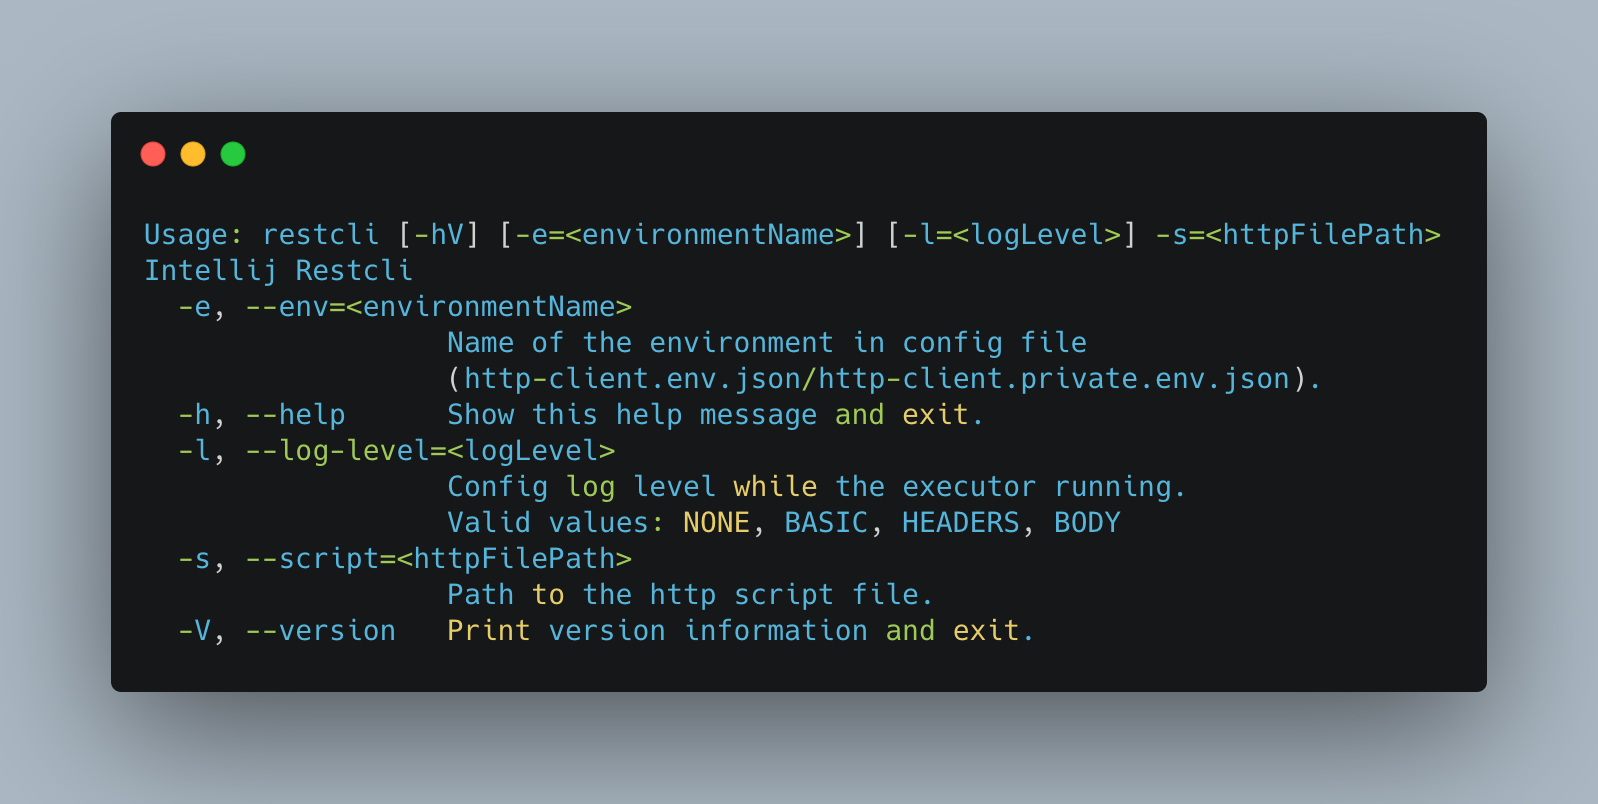
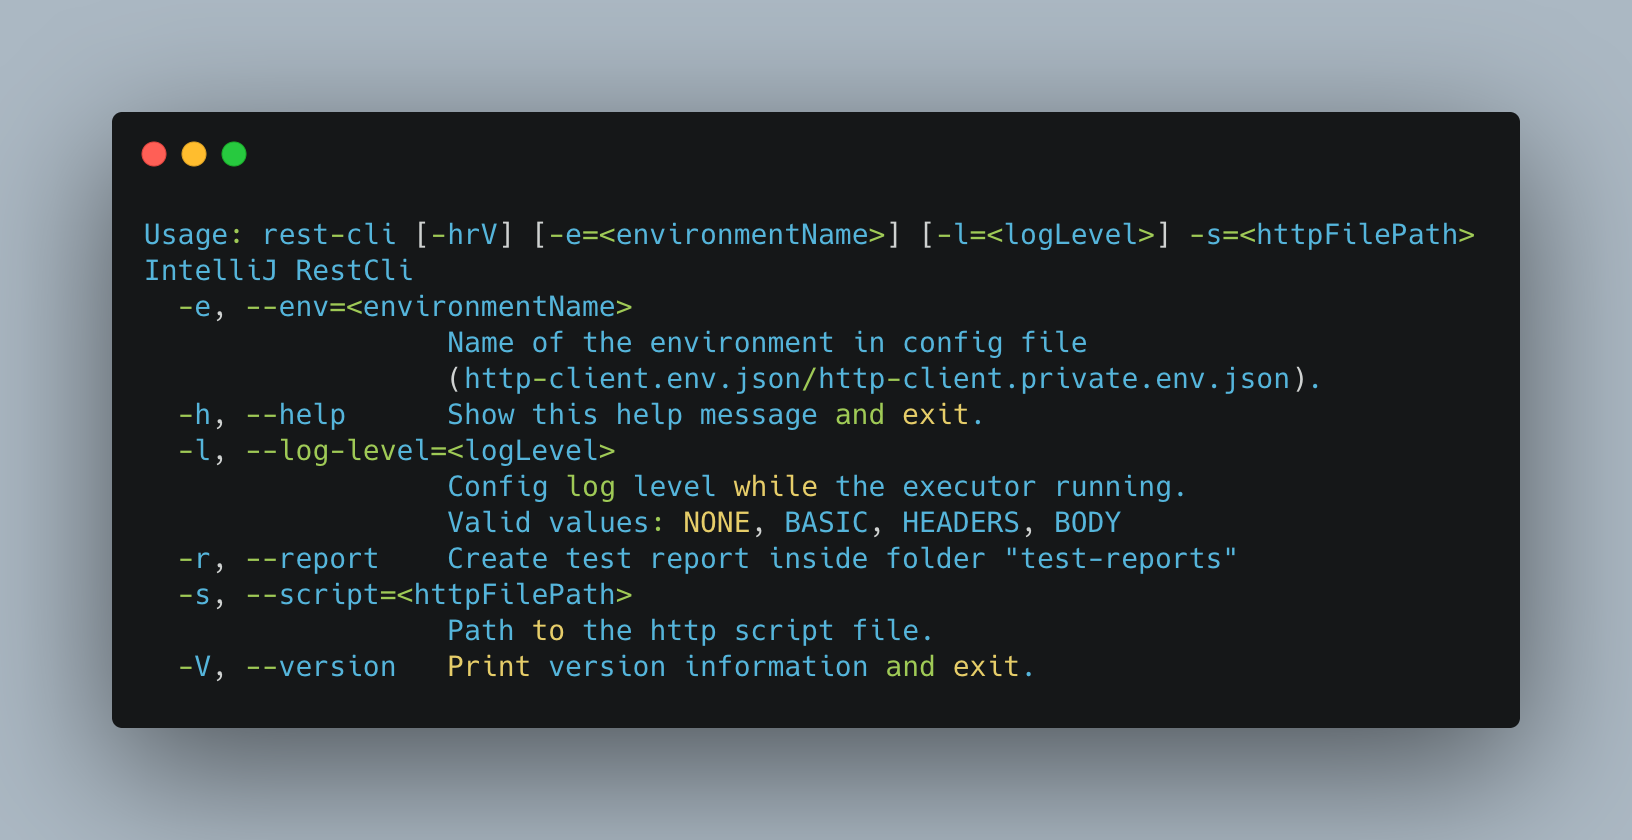
Update readme

diff --git a/README.md b/README.md
@@ -18,7 +18,7 @@
          alt="restcli">
   </a>
   <a href="https://github.com/quangson91/intellij_rest_cli/blob/master/LICENSE">
-      <img src="https://img.shields.io/badge/license-mit-blue"
+      <img src="https://img.shields.io/badge/license-MIT-blue"
            alt="restcli">
     </a>    
   <a href="https://paypal.me/quangson8128">
@@ -38,6 +38,7 @@
 ![screenshot](images/restcli_screenshots.png)
 
 ## Key Features
+* Written by Kotlin 🤩
 * Execute Intellij HTTP request files
 * Running test script including:
     - Embedded script inside HTTP request file
@@ -45,21 +46,31 @@
 * Loading and inject environment variables from
     - http-client.env.json
     - http-client.private.env.json
-* Cross platform
+* Cross platform 💻🖥
   - Windows, macOS and Linux ready.
-* Easy to custom via commandline arguments
+* Beautiful request log 🤑🤑🤑
+  - Request & response detail
+  - Test result table  
+* Easy to custom via commandline arguments 😎
   - Custom logging request
   - Inject environment name
 * [Generate test report - junit format.](https://github.com/quangson91/demo_intellij_rest_cli) 🥰🥰🥰
+
+##### Demo
+![demo-rest-cli](images/demo-rest-cli.gif)
+
+<img alt="request-with-test-success" src="images/request-with-test-success.png" width="200">
+<img alt="request-with-test-failed" src="images/request-with-test-failed.png" width="200">
+<img alt="test-result-table" src="images/test-result-table.png" width="200">
+<img alt="generate-junit-test-report" src="images/generate-junit-test-report.png" width="200">
 
 ## How To Use
 
 The fastest way to get rest cli is download jar from [releases tab](https://github.com/quangson91/intellij_rest_cli/releases)
 
 ```
-Usage: restcli [-hV] [-e=<environmentName>] [-l=<logLevel>]
-               [-r=<testReportName>] -s=<httpFilePath>
-Intellij Restcli
+Usage: rest-cli [-hrV] [-e=<environmentName>] [-l=<logLevel>] -s=<httpFilePath>
+IntelliJ RestCli
   -e, --env=<environmentName>
                   Name of the environment in config file
                   (http-client.env.json/http-client.private.env.json).
@@ -67,8 +78,7 @@ Intellij Restcli
   -l, --log-level=<logLevel>
                   Config log level while the executor running.
                   Valid values: NONE, BASIC, HEADERS, BODY
-  -r, --report=<testReportName>
-                  The name of the test report such as "test_report".
+  -r, --report    Create test report inside folder "test-reports"
   -s, --script=<httpFilePath>
                   Path to the http script file.
   -V, --version   Print version information and exit.
